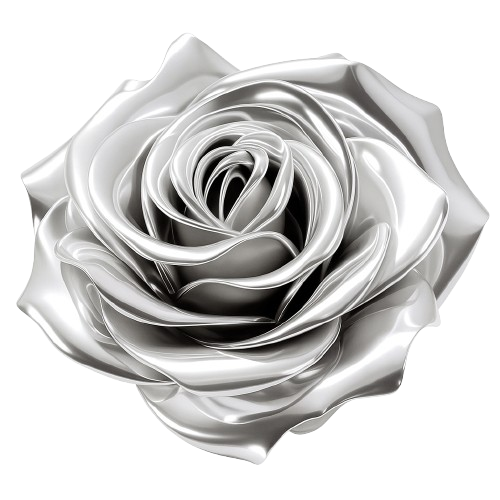
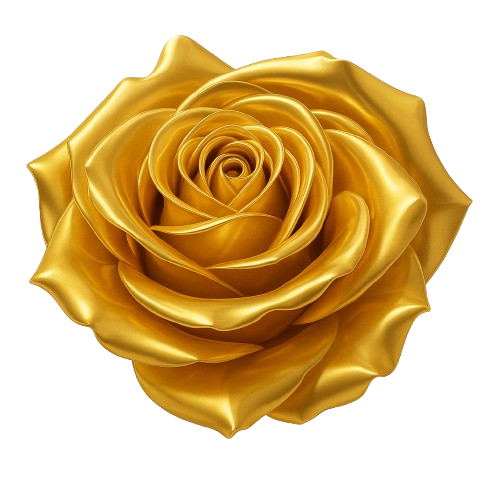
cambio dorado
cambio rosa dorada y diseño por bodas de oro

diff --git a/index.html b/index.html
@@ -3,14 +3,14 @@
 <head>
 <meta charset="UTF-8">
 <meta name="viewport" content="width=device-width, initial-scale=1.0">
-<title>Bodas de Plata - Josefina y Fernando</title>
+<title>Bodas de Oro - Josefina y Fernando</title>
 <link href="https://fonts.googleapis.com/css2?family=Great+Vibes&family=Playfair+Display:wght@500;700&family=Cormorant+Garamond:wght@400;500;600&display=swap" rel="stylesheet">
 <style>
 *{margin:0;padding:0;box-sizing:border-box}
 body{
   font-family:'Cormorant Garamond',serif;
-  color:#222;
-  background:#f8f8f8;
+  color:#4a3b00;
+  background:#fffaf0;
   overflow-x:hidden;
   position:relative;
 }
@@ -19,7 +19,7 @@ body{
 .hero{
   position:relative;
   height:100vh;
-  background:linear-gradient(rgba(255,255,255,0.75),rgba(255,255,255,0.9)),
+  background:linear-gradient(rgba(255,248,230,0.8),rgba(255,250,240,0.9)),
              url('bda6.jpg') center/cover no-repeat fixed;
   display:flex;
   flex-direction:column;
@@ -32,21 +32,21 @@ body{
   content:"";
   position:absolute;
   inset:0;
-  background:radial-gradient(circle at top,rgba(255,255,255,0.2),rgba(255,255,255,0.7));
+  background:radial-gradient(circle at top,rgba(255,255,230,0.2),rgba(255,248,200,0.6));
   animation:shimmer 10s infinite alternate;
 }
-@keyframes shimmer{from{opacity:.7}to{opacity:1}}
+@keyframes shimmer{from{opacity:.8}to{opacity:1}}
 
-/* --- EFECTO PLATEADO BRILLANTE EN EL TÍTULO --- */
+/* --- EFECTO DORADO BRILLANTE --- */
 .hero h1{
   font-family:'Great Vibes',cursive;
-  font-size:4.3rem;
-  background:linear-gradient(120deg,#9b9b9b 0%,#e5e5e5 20%,#bfbfbf 40%,#f9f9f9 60%,#bcbcbc 80%,#e3e3e3 100%);
+  font-size:clamp(2.5rem,7vw,4.5rem);
+  background:linear-gradient(120deg,#c19a2b 0%,#f6e27a 25%,#d4af37 50%,#f7e98e 75%,#b88a00 100%);
   background-size:300% 300%;
   -webkit-background-clip:text;
   -webkit-text-fill-color:transparent;
   animation:shine 8s linear infinite, fadeDown 2s ease;
-  text-shadow:0 3px 6px rgba(0,0,0,0.12);
+  text-shadow:0 3px 6px rgba(180,150,50,0.25);
   font-weight:700;
   letter-spacing:1px;
   z-index:2;
@@ -59,25 +59,25 @@ body{
 
 .hero p{
   font-family:'Playfair Display',serif;
-  font-size:1.3rem;
-  color:#222;
+  font-size:clamp(1rem,3.2vw,1.25rem);
+  color:#5b4a00;
   font-weight:500;
   margin-top:15px;
-  letter-spacing:0.4px;
   z-index:2;
   animation:fadeUp 2s ease;
+  line-height:1.6;
 }
 .line{
   width:120px;height:2px;
-  background:linear-gradient(to right,#999,#e2e2e2,#999);
+  background:linear-gradient(to right,#d4af37,#f6e27a,#d4af37);
   margin:20px auto;
   z-index:2;
 }
 
-/* --- FOTOS EN LAS ESQUINAS --- */
+/* --- FOTOS EN LAS ESQUINAS (SIN CAMBIAR EFECTOS) --- */
 .decor{
   position:absolute;
-  width:280px;
+  width:clamp(120px,28vw,280px);
   opacity:0.45;
   z-index:1;
   filter:drop-shadow(0 4px 6px rgba(0,0,0,0.15));
@@ -86,8 +86,6 @@ body{
 }
 .decor.top-left{top:-30px;left:-30px;transform:rotate(-8deg);}
 .decor.bottom-right{bottom:-30px;right:-30px;transform:rotate(10deg);}
-.decor.middle-right{top:-30px;right:-30px;width:280px;transform:rotate(5deg);}
-.decor.bottom-left{bottom:-30px;left:-30px;width:280px;transform:rotate(-5deg);}
 @keyframes float{
   0%{transform:translateY(0) rotate(var(--r,0deg));}
   100%{transform:translateY(10px) rotate(var(--r2,5deg));}
@@ -102,7 +100,7 @@ body{
   background-size:400px;
   background-repeat:repeat;
   background-attachment:fixed;
-  filter:grayscale(100%) brightness(1.1) blur(2px);
+  filter:grayscale(10%) brightness(1.05) sepia(40%) hue-rotate(15deg);
   opacity:0.25;
   z-index:0;
 }
@@ -112,71 +110,85 @@ body{
   position:relative;
   z-index:2;
   text-align:center;
-  padding:100px 20px;
+  padding:clamp(60px,10vw,100px) 20px;
   max-width:900px;
   margin:auto;
 }
 .info section{
-  background:rgba(255,255,255,0.9);
+  background:rgba(255,250,235,0.92);
   border-radius:20px;
-  box-shadow:0 10px 25px rgba(0,0,0,0.08);
-  margin:40px 0;
-  padding:40px 25px;
+  box-shadow:0 10px 25px rgba(200,150,50,0.1);
+  margin:clamp(20px,6vw,40px) 0;
+  padding:clamp(25px,6vw,40px) 25px;
   backdrop-filter:blur(6px);
   animation:fadeUp 1.5s ease;
 }
 .info h2{
   font-family:'Playfair Display',serif;
-  font-size:2rem;
-  color:#111;
+  font-size:clamp(1.4rem,5vw,2rem);
+  background:linear-gradient(135deg,#d4af37,#f7e98e,#c19a2b);
+  -webkit-background-clip:text;
+  -webkit-text-fill-color:transparent;
   font-weight:700;
-  text-shadow:0 2px 3px rgba(0,0,0,0.1);
   letter-spacing:0.6px;
+  text-shadow:0 2px 3px rgba(120,90,10,0.15);
   margin-bottom:15px;
 }
 .info p{
-  font-family:'Cormorant Garamond',serif;
-  font-size:1.15rem;
+  font-size:clamp(1rem,3.8vw,1.15rem);
   line-height:1.9;
-  color:#222;
+  color:#4a3b00;
   font-weight:500;
   letter-spacing:0.3px;
 }
+
+/* --- MARCO DORADO DE FOTO --- */
+.gold-frame{
+  display:block;
+  margin:30px auto 10px;
+  max-width:90%;
+  border:6px solid transparent;
+  border-image:linear-gradient(135deg,#d4af37,#f6e27a,#c19a2b) 1;
+  border-radius:15px;
+  box-shadow:0 5px 20px rgba(200,150,40,0.2);
+}
+
+/* --- LINKS Y BOTONES --- */
 a{
   font-family:'Cormorant Garamond',serif;
-  color:#222;
+  color:#7b6400;
   text-decoration:none;
-  border-bottom:1px solid #999;
-  font-size:1.05rem;
+  border-bottom:1px solid #d4af37;
+  font-size:clamp(0.9rem,3.2vw,1.05rem);
   transition:.3s;
 }
-a:hover{color:#000;border-color:#000;}
+a:hover{color:#a07f00;border-color:#a07f00;}
 .button{
   display:inline-block;
   margin-top:25px;
   padding:12px 35px;
-  background:linear-gradient(135deg,#8d8d8d,#c5c5c5);
+  background:linear-gradient(135deg,#d4af37,#f7e98e,#c19a2b);
   color:white;
   border-radius:30px;
   text-decoration:none;
   font-weight:600;
   letter-spacing:0.5px;
   transition:all .3s ease;
-  box-shadow:0 6px 12px rgba(0,0,0,0.15);
+  box-shadow:0 6px 12px rgba(200,160,50,0.25);
 }
 .button:hover{
   transform:scale(1.05);
-  background:linear-gradient(135deg,#7a7a7a,#d0d0d0);
+  background:linear-gradient(135deg,#f1cc52,#d4af37);
 }
 
-/* --- ROSAS PLATEADAS CAYENDO --- */
+/* --- ROSAS DORADAS CAYENDO --- */
 .rose{
   position:fixed;
   top:-10%;
   width:55px;
   opacity:0.35;
   animation:fall linear infinite;
-  filter:drop-shadow(0 0 6px rgba(200,200,200,0.8));
+  filter:drop-shadow(0 0 6px rgba(210,160,60,0.8));
   z-index:1;
   pointer-events:none;
 }
@@ -190,60 +202,55 @@ footer{
   font-family:'Cormorant Garamond',serif;
   text-align:center;
   padding:50px 20px;
-  font-size:1.05rem;
+  font-size:clamp(0.9rem,3.5vw,1.05rem);
   font-weight:500;
-  background:#f0f0f0;
-  color:#333;
+  background:#fff8e1;
+  color:#5c4b00;
+  border-top:2px solid #e6c85a;
   letter-spacing:0.3px;
+  line-height:1.6;
 }
 
-/* --- RESPONSIVE OPTIMIZADO --- */
-@media (max-width: 1024px) {
-  .hero {
-    background-position:center top;
-    background-size:cover;
-  }
+/* Animaciones */
+@keyframes fadeUp{from{opacity:0;transform:translateY(30px)}to{opacity:1;transform:translateY(0)}}
+@keyframes fadeDown{from{opacity:0;transform:translateY(-30px)}to{opacity:1;transform:translateY(0)}}
+
+/* --- RESPONSIVE SIN CAMBIAR EFECTOS --- */
+@media (max-width:768px){
+  .hero{height:auto;min-height:100vh;background-attachment:scroll;}
+  .decor{opacity:0.4;}
+  .decor.top-left{width:180px;top:-15px;left:-15px;}
+  .decor.bottom-right{width:180px;bottom:-15px;right:-15px;}
+  .info{padding:60px 15px;}
+  .info section{margin:25px 0;padding:25px 15px;}
+  .gold-frame{max-width:95%;border-width:4px;}
 }
-@media (max-width: 768px) {
-  .hero { height:auto; padding:80px 15px; background-attachment:scroll; background-position:center; background-size:contain; }
-  .hero h1 { font-size:2.8rem; }
-  .hero p { font-size:1.05rem; line-height:1.6; }
-  .decor { width:140px; opacity:0.35; }
-  .decor.middle-right{width:130px;right:0;top:10px;}
-  .decor.top-left{width:130px;left:0;top:10px;}
-  .decor.bottom-right{width:130px;right:0;bottom:0;}
-  .decor.bottom-left{width:130px;left:0;bottom:0;}
-  .info { padding:60px 15px; }
-  .info section { padding:25px 15px; margin:25px 0; }
-  .info h2 { font-size:1.5rem; }
-  .info p { font-size:1rem; }
-  .button { padding:10px 25px; font-size:0.95rem; }
-}
-@media (max-width: 480px) {
-  .hero h1 { font-size:2.3rem; }
-  .hero p { font-size:1rem; }
-  .decor { width:110px; opacity:0.3; }
-  .info h2 { font-size:1.3rem; }
-  .button { padding:9px 20px; }
+@media (max-width:480px){
+  .decor.top-left,.decor.bottom-right{width:150px;opacity:0.35;}
+  .hero h1{font-size:2.6rem;}
+  .info h2{font-size:1.4rem;}
+  .info p{font-size:1rem;}
+  .button{padding:10px 25px;}
 }
 </style>
 </head>
 <body>
 
+<!-- Fondo collage -->
 <div class="bg-collage"></div>
 
+<!-- Portada -->
 <div class="hero">
   <img src="bda1.png" class="decor top-left" style="--r:-8deg;--r2:-3deg;">
-  <img src="bda4.jpeg" class="decor middle-right" style="--r:5deg;--r2:-2deg;">
   <img src="bda3.png" class="decor bottom-right" style="--r:10deg;--r2:7deg;">
-  <img src="bda5.jpeg" class="decor bottom-left" style="--r:-5deg;--r2:-3deg;">
-  <h1>Bodas de Plata</h1>
+  <h1>Bodas de Oro</h1>
   <div class="line"></div>
   <p>Josefina Rosalia Maldonado Larios y<br>Fernando Gutiérrez Arenas<br><br>
   Invitan junto a sus hijos<br><strong>Israel y Maribel Gutiérrez Maldonado</strong><br>
-  a celebrar 25 años de amor y unión.</p>
+  a celebrar 50 años de amor y unión.</p>
 </div>
 
+<!-- Información -->
 <div class="info">
   <section>
     <h2>Ceremonia Religiosa</h2>
@@ -257,15 +264,14 @@ footer{
     <h2>Comida de Celebración</h2>
     <p>Después de la misa, acompáñanos a compartir una comida familiar<br>
     en <strong>Avenida Halcón 4, Colonia Central Michoacana, Ecatepec de Morelos</strong>.</p>
+    <img src="bda4.jpeg" alt="Foto de la familia" class="gold-frame">
   </section>
 
   <section>
     <h2>Confirma tu Asistencia</h2>
     <p>Tu presencia es el mejor regalo que podemos recibir.</p>
-    <a class="button" href="https://wa.me/5215516569477?text=Confirmo%20mi%20asistencia%20a%20las%20Bodas%20de%20Plata%20de%20Josefina%20y%20Fernando%20💍" target="_blank">
-      Confirmar por WhatsApp
-    </a>
-    <p style="margin-top:10px;font-size:0.95rem;color:#666;">(Contacto: Israel Gutiérrez Maldonado)</p>
+    <a class="button" href="https://wa.me/5215516569477?text=Confirmo%20mi%20asistencia%20a%20las%20Bodas%20de%20Oro%20de%20Josefina%20y%20Fernando%20💛" target="_blank">Confirmar por WhatsApp</a>
+    <p style="margin-top:10px;font-size:0.95rem;color:#8b7500;">(Contacto: Israel Gutiérrez Maldonado)</p>
   </section>
 </div>
 
@@ -274,6 +280,7 @@ footer{
 </footer>
 
 <script>
+/* Rosas doradas cayendo */
 for(let i=0;i<25;i++){
   const rose=document.createElement('img');
   rose.src='rosa.png';
@@ -285,5 +292,6 @@ for(let i=0;i<25;i++){
   document.body.appendChild(rose);
 }
 </script>
+
 </body>
 </html>
